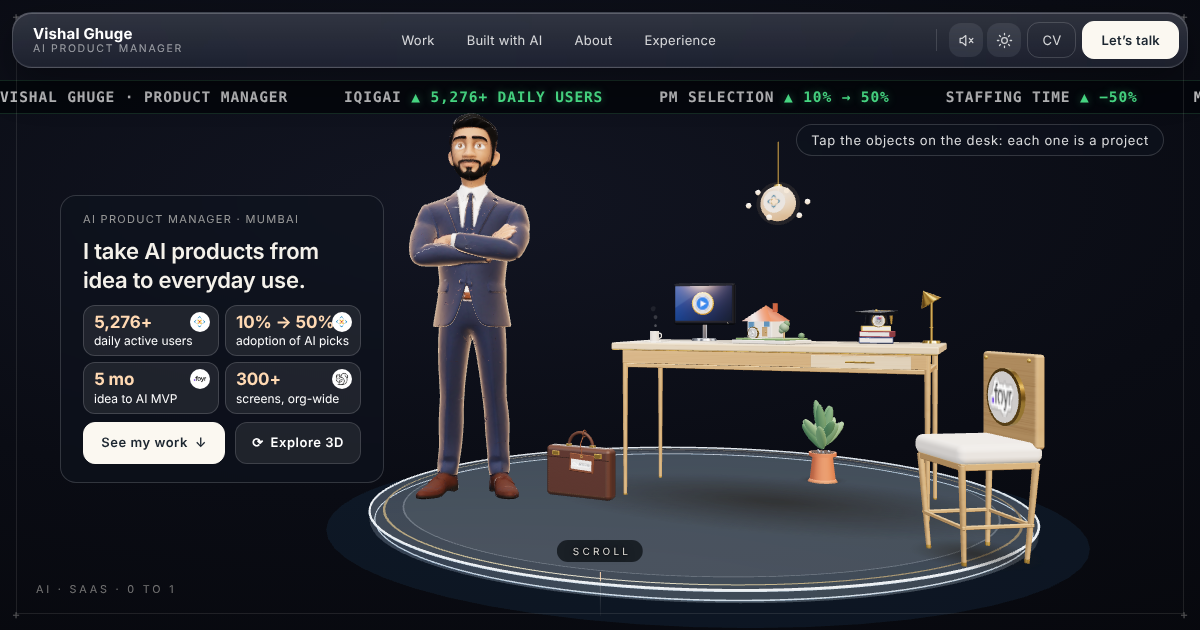
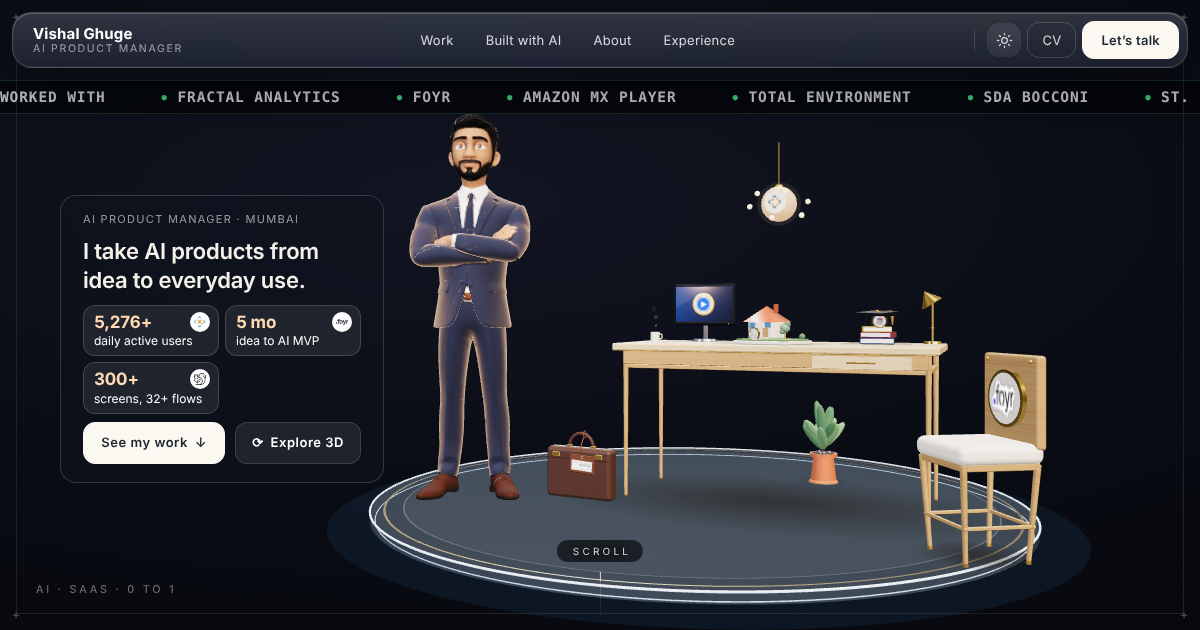
Restraint pass: worked-with ticker, 3 hero numbers, one tag per card, hint once, sound in tour bar, closing CTA buttons, iqigai date note, Bocconi details
Claude-Session: https://claude.ai/code/session_01SWnfNPGbFHhiGrXWnwnedS

diff --git a/web/src/App.tsx b/web/src/App.tsx
@@ -42,6 +42,11 @@ function TopBar() {
   const open = useStore((s) => s.active !== null)
   const [talk, setTalk] = useState(false)
   const [menu, setMenu] = useState(false)
+  useEffect(() => {
+    const open = () => setTalk(true)
+    window.addEventListener('open-talk', open)
+    return () => window.removeEventListener('open-talk', open)
+  }, [])
   // Which section is on screen, so its link in the bar lights up
   const [current, setCurrent] = useState<string | null>(null)
   useEffect(() => {
@@ -121,7 +126,6 @@ function TopBar() {
       <div className="tb-right">
         <span className="tb-divider" aria-hidden="true" />
         <span className="tb-toggles">
-          <SoundToggle />
           <ThemeToggle />
         </span>
         <a className="topbar-cv" href={CV_URL} download="Vishal_Ghuge_CV.pdf" onClick={() => track('cv_download')}>
@@ -171,9 +175,29 @@ function PageTopButton() {
   return <ScrollTopButton hidden={open} />
 }
 
+// The desk hint shows once per visitor (about 8 seconds), then never again
 function StickerHint({ opacity }: { opacity: MotionValue<number> }) {
   const touched = useStore((s) => s.touched)
-  if (touched) return null
+  const [seen, setSeen] = useState(() => {
+    try {
+      return localStorage.getItem('hintSeen') === '1'
+    } catch {
+      return false
+    }
+  })
+  useEffect(() => {
+    if (seen) return
+    const t = window.setTimeout(() => {
+      setSeen(true)
+      try {
+        localStorage.setItem('hintSeen', '1')
+      } catch {
+        /* private mode */
+      }
+    }, 8000)
+    return () => window.clearTimeout(t)
+  }, [seen])
+  if (touched || seen) return null
   return (
     <motion.div className="sticker-hint" style={{ opacity }} aria-hidden="true">
       {typeof window !== 'undefined' && window.innerWidth / window.innerHeight < 1.05
@@ -245,9 +269,8 @@ function RoleRotator() {
 // Proof points shown under the intro. Every figure comes from the case study it opens.
 const PROOF = [
   { n: '5,276+', label: 'daily active users', sub: 'iqigai · AI staffing', slug: 'iqigai', logo: 'iqigai.png' },
-  { n: '10% → 50%', label: 'adoption of AI picks', sub: 'iqigai · PM selection rate', slug: 'iqigai', logo: 'iqigai.png' },
   { n: '5 mo', label: 'idea to AI MVP', sub: 'Foyr Ideate', slug: 'foyr-ideate', logo: 'foyr.png' },
-  { n: '300+', label: 'screens, org-wide', sub: 'Total Environment', slug: 'total-environment', logo: 'te.png' },
+  { n: '300+', label: 'screens, 32+ flows', sub: 'Total Environment', slug: 'total-environment', logo: 'te.png' },
 ]
 
 function Proof() {
@@ -321,16 +344,6 @@ function Hero({ cueOpacity }: { cueOpacity: MotionValue<number> }) {
             >
               <span aria-hidden="true">⟳</span> <span className="lbl-long">Explore 3D</span><span className="lbl-short" aria-hidden="true">Explore</span>
             </button>
-            <button
-              className="about-btn about-btn-more"
-              aria-expanded={expanded}
-              onClick={() => {
-                track('about_toggle', expanded ? 'collapse' : 'expand')
-                setExpanded((v) => !v)
-              }}
-            >
-              <span className="lbl-long">{expanded ? 'Hide' : 'Read more'}</span><span className="lbl-short" aria-hidden="true">{expanded ? 'Hide' : 'More'}</span>
-            </button>
           </div>
         </div>
       </motion.div>
@@ -361,6 +374,21 @@ function Contact() {
     <section className="closing" lang="en" aria-labelledby="closing-title">
       <h2 className="closing-title" id="closing-title">Building something with AI? Let’s talk.</h2>
       <p className="closing-sub">I’m happy to walk you through any of these products, the decisions behind them and what I’d do next.</p>
+      <div className="closing-actions">
+        <button
+          type="button"
+          className="about-me-btn is-primary"
+          onClick={() => {
+            track('talk_open', 'closing')
+            window.dispatchEvent(new Event('open-talk'))
+          }}
+        >
+          Let’s talk
+        </button>
+        <a className="about-me-btn" href={CV_URL} download="Vishal_Ghuge_CV.pdf" onClick={() => track('cv_download', 'closing')}>
+          Download CV
+        </a>
+      </div>
     </section>
     <footer className="contact" id="contact" lang="en">
       <div className="foot-bar">

diff --git a/web/src/data/works.ts b/web/src/data/works.ts
@@ -83,7 +83,7 @@ export const WORKS: Record<'en', WorksLang> = {
           {
             name: 'iqigai',
             meta: 'Matches bench people to open roles, and explains every recommendation',
-            tags: ['5,276+ daily users', '50% less staffing time'],
+            tags: ['AI staffing platform'],
             logo: 'iqigai.png',
             stat: { n: '10% → 50%', label: 'PM selection rate on AI picks' },
             slug: 'iqigai',
@@ -91,7 +91,7 @@ export const WORKS: Record<'en', WorksLang> = {
           {
             name: 'Foyr Ideate',
             meta: 'Takes a room from empty or tired to a design direction, with AI',
-            tags: ['0 → MVP in 5 months', 'Freemium pricing model'],
+            tags: ['AI interior design'],
             cover: 'foyr-ideate.jpg',
             link: 'https://ideate.foyr.com',
             slug: 'foyr-ideate',
@@ -99,7 +99,7 @@ export const WORKS: Record<'en', WorksLang> = {
           {
             name: 'Total Environment',
             meta: 'Designers build homes in 3D on the web; buyers explore and choose in the same pipeline',
-            tags: ['300+ screens', 'Desktop CAD → web'],
+            tags: ['3D design tool + buyer portal'],
             logo: 'te.png',
             stat: { n: 'Org-wide', label: 'rollout of the design tool' },
             slug: 'total-environment',
@@ -107,7 +107,7 @@ export const WORKS: Record<'en', WorksLang> = {
           {
             name: 'Amazon MX Player',
             meta: 'Turned a content backlog with no process into a pipeline that ships on time',
-            tags: ['300,000+ content units', '56 shows live in a week'],
+            tags: ['Content operations'],
             logo: 'mx.png',
             stat: { n: '+50%', label: 'daily output in a month' },
             slug: 'mx-player',

diff --git a/web/index.html b/web/index.html
@@ -17,7 +17,7 @@
       content="Product Manager at Fractal Analytics. Case studies: iqigai (AI staffing platform with 5,276+ daily users), a 300+ screen 3D design tool, an AI MVP in 5 months, and 56 shows live in a week at Amazon MX Player."
     />
     <meta property="og:url" content="https://vishalghuge-git.github.io/portfolio/" />
-    <meta property="og:image" content="https://vishalghuge-git.github.io/portfolio/og.png?v=11" />
+    <meta property="og:image" content="https://vishalghuge-git.github.io/portfolio/og.png?v=12" />
     <meta property="og:image:width" content="1200" />
     <meta property="og:image:height" content="630" />
     <meta property="og:image:alt" content="Vishal Ghuge's portfolio: a 3D studio with his work and case studies" />
@@ -25,7 +25,7 @@
     <meta name="twitter:card" content="summary_large_image" />
     <meta name="twitter:title" content="Vishal Ghuge · AI Product Manager" />
     <meta name="twitter:description" content="AI and SaaS products from 0 to 1. Case studies from Fractal, Foyr, Total Environment and Amazon MX Player." />
-    <meta name="twitter:image" content="https://vishalghuge-git.github.io/portfolio/og.png?v=11" />
+    <meta name="twitter:image" content="https://vishalghuge-git.github.io/portfolio/og.png?v=12" />
     <link rel="preconnect" href="https://fonts.googleapis.com" />
     <link rel="preconnect" href="https://fonts.gstatic.com" crossorigin />
     <link

diff --git a/web/src/scene/TickerBackdrop.tsx b/web/src/scene/TickerBackdrop.tsx
@@ -4,24 +4,18 @@ import { useEffect, useRef } from 'react'
 // A marquee just under the top bar, above the avatar's head, on desktop, tablet and phones.
 // It fades out once the visitor scrolls past the hero, and stops scrolling for reduced motion.
 
-const ITEMS: [string, string][] = [
-  ['IQIGAI', '5,276+ DAILY USERS'],
-  ['PM SELECTION', '10% → 50%'],
-  ['STAFFING TIME', '−50%'],
-  ['MX PLAYER', '56 SHOWS / WEEK'],
-  ['FOYR IDEATE', 'MVP IN 5 MO'],
-  ['TOTAL ENV', '300+ SCREENS'],
-]
+// Who Vishal has worked and studied with: new information, so the numbers appear only once on the page
+const NAMES = ['FRACTAL ANALYTICS', 'FOYR', 'AMAZON MX PLAYER', 'TOTAL ENVIRONMENT', 'SDA BOCCONI', 'ST. XAVIER’S COLLEGE']
 
 function Row() {
   return (
     <span className="tkb-row">
       <span className="tkb-item">
-        <i>VISHAL GHUGE · PRODUCT MANAGER</i>
+        <i>WORKED WITH</i>
       </span>
-      {ITEMS.map(([label, value]) => (
-        <span key={label} className="tkb-item">
-          <i>{label}</i> <em>▲ {value}</em>
+      {NAMES.map((n) => (
+        <span key={n} className="tkb-item">
+          <em>●</em> <i>{n}</i>
         </span>
       ))}
     </span>

diff --git a/web/src/ui/Resume.tsx b/web/src/ui/Resume.tsx
@@ -37,7 +37,7 @@ const RESUME: { title: string; entries: ResumeEntry[] } = {
         {
           heading: 'iqigai', case: 'iqigai',
           focus: 'iqigai',
-          sub: 'AI recruitment and staffing platform · Nov 2025 – Present',
+          sub: 'AI recruitment and staffing platform · Nov 2025 – Present (started as Fractal’s client PM from Foyr; hired in-house Apr 2026)',
           items: [
             'Platform build (0 to 1): B2B and B2C platform with 5,276+ daily active users; PM selection rate on AI recommendations up from 10% to 50%, and 50% less time spent on staffing',
             '6 AI agents across lateral hiring, fresher hiring, JD creation and candidate matching, and bench assessment',
@@ -92,6 +92,10 @@ const RESUME: { title: string; entries: ResumeEntry[] } = {
       place: 'SDA Bocconi School of Management, Italy',
       focus: 'bocconi',
       role: 'International Master in Business',
+      points: [
+        'Ranked first on a Google Italy strategy project',
+        'Top ten on a Cartier India market entry project',
+      ],
     },
     {
       kind: 'education',

diff --git a/web/src/styles.css b/web/src/styles.css
@@ -3187,3 +3187,12 @@ html[data-theme='light'] .timeline .tl-collapse .tl-body:not(:has(.tl-group)) { 
 }
 @media (max-width: 640px) { .closing { width: calc(100% - 32px); } }
 @media (min-width: 641px) { .closing { padding: 26px 26px; } }
+
+/* ---- Restraint pass ---- */
+.closing-actions { display: flex; gap: 10px; flex-wrap: wrap; margin-top: 18px; }
+.tkb-item em { font-size: 9px; vertical-align: 2px; color: rgba(75, 227, 138, 0.8); text-shadow: none; }
+.eb-sound { display: inline-flex; margin-left: 4px; }
+.eb-sound .sound-toggle { width: 40px; height: 40px; }
+@media (max-width: 640px) { .eb-sound { display: none; } }
+/* more breathing room between sections */
+section.work + section.work, .about-me, .kind, .resume, .closing { margin-top: 6vh; }

diff --git a/web/src/ui/WorkCards.tsx b/web/src/ui/WorkCards.tsx
@@ -144,16 +144,6 @@ export function BuiltWithAI() {
               </span>
               <span className="build-name">{it.name}</span>
               {it.tagline && <span className="build-line">{it.tagline}</span>}
-              {it.facts && it.facts.length > 0 && (
-                <dl className="build-facts">
-                  {it.facts.map((f) => (
-                    <div key={f.label}>
-                      <dt>{f.label}</dt>
-                      <dd>{f.value}</dd>
-                    </div>
-                  ))}
-                </dl>
-              )}
               <button
                 type="button"
                 className="build-story"

diff --git a/web/src/ui/ExploreBar.tsx b/web/src/ui/ExploreBar.tsx
@@ -1,6 +1,7 @@
 import { useEffect, useRef, useState } from 'react'
 import { useStore } from '../store'
 import { orbit, resetView, setSide } from '../scene/orbit'
+import SoundToggle from './SoundToggle'
 import { TOUR } from '../scene/tour'
 
 const SHOW_IDLE_BUTTON = false
@@ -193,6 +194,9 @@ export default function ExploreBar() {
         <button className="eb-btn eb-reset" onClick={exit}>
           Reset
         </button>
+        <span className="eb-sound">
+          <SoundToggle />
+        </span>
       </div>
     </>
   )
